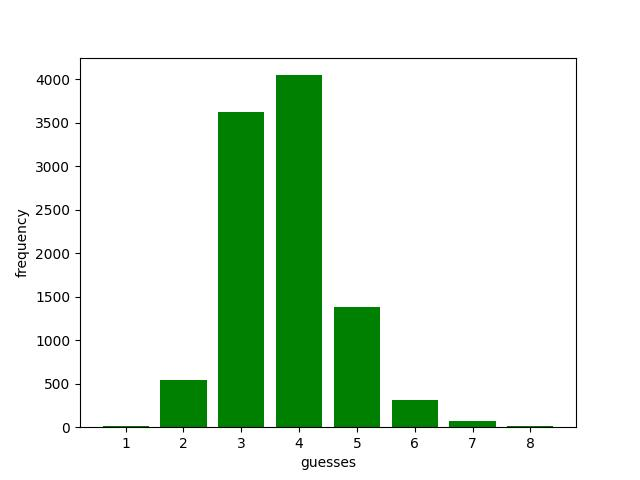
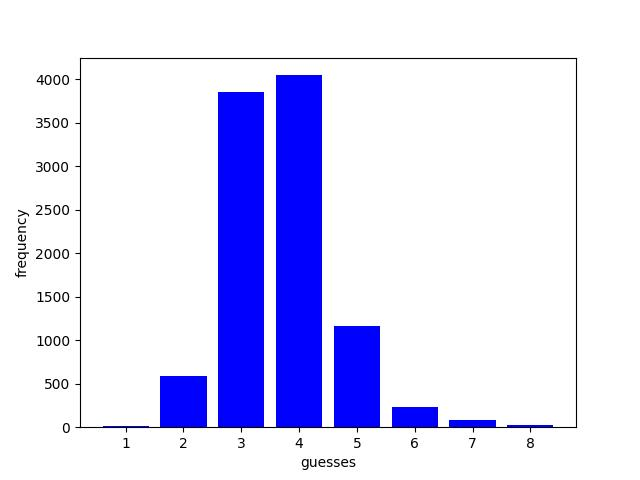
performance improve
by sort the answer database everytime

Changed region(s): [[0.25, 0.1562, 0.875, 0.9062], [0.1562, 0.875, 0.2188, 0.9062]]

diff --git a/test/sort.py b/test/sort.py
@@ -5,38 +5,7 @@ with open('answers.json', 'r') as f:
     pa = answers['possible_answers']
     ta = answers['total_answers']
 
-frequency = {
-    'a': 0,
-    'b': 0,
-    'c': 0,
-    'd': 0,
-    'e': 0,
-    'f': 0,
-    'g': 0,
-    'h': 0,
-    'i': 0,
-    'j': 0,
-    'k': 0,
-    'l': 0,
-    'm': 0,
-    'n': 0,
-    'o': 0,
-    'p': 0,
-    'q': 0,
-    'r': 0,
-    's': 0,
-    't': 0,
-    'u': 0,
-    'v': 0,
-    'w': 0,
-    'x': 0,
-    'y': 0,
-    'z': 0,
-}
 
-for word in pa:
-    for ch in word:
-        frequency[ch] += 1
 
 def score(word, frequency):
     n = 0
@@ -44,8 +13,43 @@ def score(word, frequency):
         n += frequency[ch]
     return n
 
-pa.sort(key = lambda ans: score(ans, frequency), reverse = True)
-ta.sort(key = lambda ans: score(ans, frequency), reverse = True)
+def sort(arr):
+
+    frequency = {
+        'a': 0,
+        'b': 0,
+        'c': 0,
+        'd': 0,
+        'e': 0,
+        'f': 0,
+        'g': 0,
+        'h': 0,
+        'i': 0,
+        'j': 0,
+        'k': 0,
+        'l': 0,
+        'm': 0,
+        'n': 0,
+        'o': 0,
+        'p': 0,
+        'q': 0,
+        'r': 0,
+        's': 0,
+        't': 0,
+        'u': 0,
+        'v': 0,
+        'w': 0,
+        'x': 0,
+        'y': 0,
+        'z': 0,
+    }
+
+    for word in arr:
+        for ch in word:
+            frequency[ch] += 1
+
+    arr.sort(key = lambda ans: score(ans, frequency), reverse = True)
+    return arr
 
 with open('answers.json', 'w') as f:
     answers['possible_answers'] = pa

diff --git a/app.py b/app.py
@@ -1,9 +1,8 @@
-from glob import glob
 import json
 import tkinter as tk
 import tkinter.messagebox
 import tkinter.font as tkFont
-import random
+from test.sort import sort
 
 with open('answers.json', 'r') as r:
     answers = json.load(r)
@@ -67,6 +66,9 @@ def select():
     ta = [answer for answer in ta if get_result(guess, answer) == result]
     not_duplicate = [answer for answer in not_duplicate if get_result(guess, answer) == result]
     duplicate = [answer for answer in duplicate if get_result(guess, answer) == result]
+
+    not_duplicate = sort(not_duplicate)
+    duplicate = sort(duplicate)
 
 def generate():
     global duplicate

diff --git a/test/game.py b/test/game.py
@@ -1,5 +1,6 @@
 import json
 import random
+from test.sort import sort, score
 
 with open('answers.json', 'r') as r:
     answers = json.load(r)
@@ -57,6 +58,9 @@ def game(pa, ta, not_duplicate, duplicate):
         ta = [answer for answer in ta if check(guess, answer) == result]
         print(len(ta))
         print(len(pa))
+
+        not_duplicate = sort(not_duplicate)
+        duplicate = sort(duplicate)
 
         n += 1
     

diff --git a/test/graph.py b/test/graph.py
@@ -1,10 +1,10 @@
 import matplotlib.pyplot as plt
 
 x = list(range(1, 9))
-nums = [10, 540, 3623, 4045, 1380, 318, 68, 16]
+nums = [10, 587, 3855, 4048, 1169, 228, 82, 21]
 
 
-plt.bar(x, nums, color = 'green')
+plt.bar(x, nums, color = 'blue')
 plt.xlabel('guesses')
 plt.ylabel('frequency')
 plt.savefig('exemple/graph.jpg')

diff --git a/README.md b/README.md
@@ -1,7 +1,7 @@
 # wordle-cheater
 this is a very simple Wordle helper~  
 made by Python Tkinter  
-+ (the average performance is 3.75 guesses)  
++ (the average performance is 3.69 guesses)  
 <img src="https://github.com/jeff082chen/wordle_cheater/blob/main/exemple/graph.jpg" width="500"/>  
 
 # How to download
